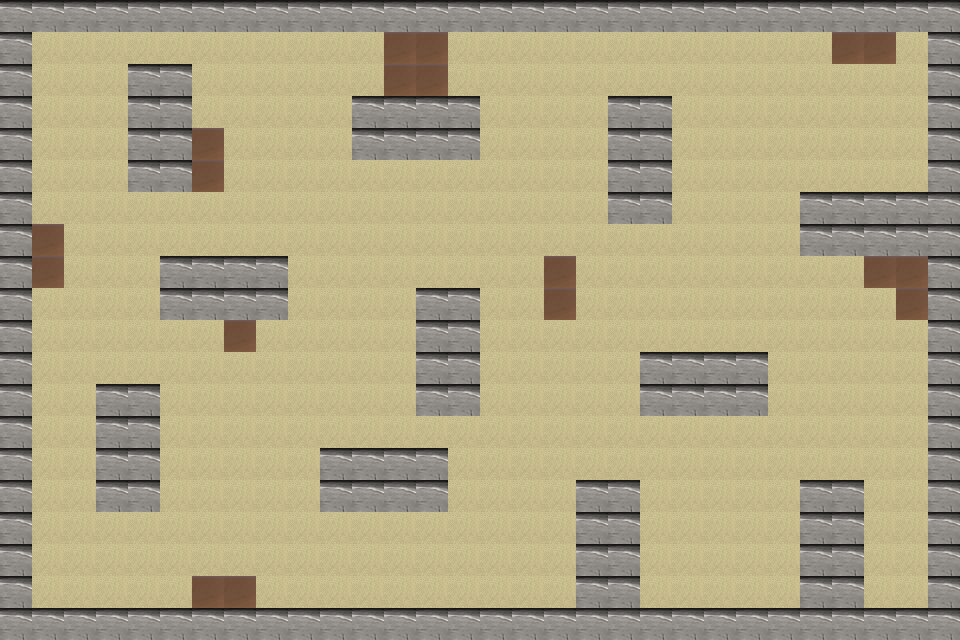
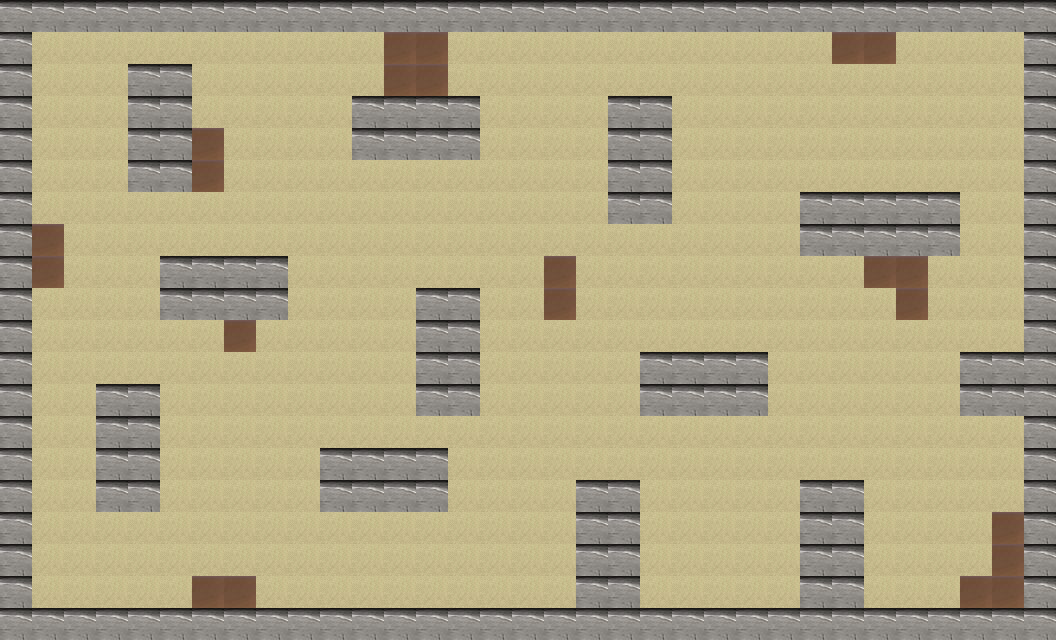
map

diff --git a/src/Game/Game.c b/src/Game/Game.c
@@ -497,7 +497,7 @@ void randomCoordsWithDistance(int *XY, player *p, char *map, int pC,
     if (spawns)
         free(spawns);
 
-    // Fallback: Random loop
+    // Fallback or for power ups : Random loop
     while (!hasFinished && tries < 1000)
     {
         randomX = rand() % W;
